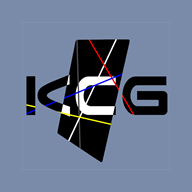
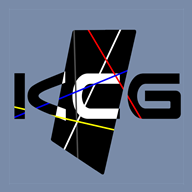
アイコンの余白を縮小し、iOS用アイコンを別ファイル化

Changed region(s): [[0.0625, 0.125, 0.9688, 0.9062]]

diff --git a/index.html b/index.html
@@ -10,7 +10,7 @@
 <meta name="apple-mobile-web-app-title" content="トークン管理">
 <link rel="manifest" href="manifest.webmanifest">
 <link rel="icon" href="icons/icon-192.png" type="image/png">
-<link rel="apple-touch-icon" href="icons/icon-192.png">
+<link rel="apple-touch-icon" href="icons/apple-touch-icon.png">
 <link rel="stylesheet" href="style.css">
 <script>
 // 初回描画前に配色を適用(ちらつき防止)。保存が無ければダーク

diff --git a/sw.js b/sw.js
@@ -1,4 +1,4 @@
-const CACHE = "tcg-token-v29";
+const CACHE = "tcg-token-v30";
 const ASSETS = [
   "./",
   "./index.html",
@@ -8,6 +8,7 @@ const ASSETS = [
   "./fonts/orbitron-700.woff2",
   "./fonts/mplus1p-700-subset.woff2",
   "./icons/icon-192.png",
+  "./icons/apple-touch-icon.png",
   "./icons/icon-512.png",
 ];
 
